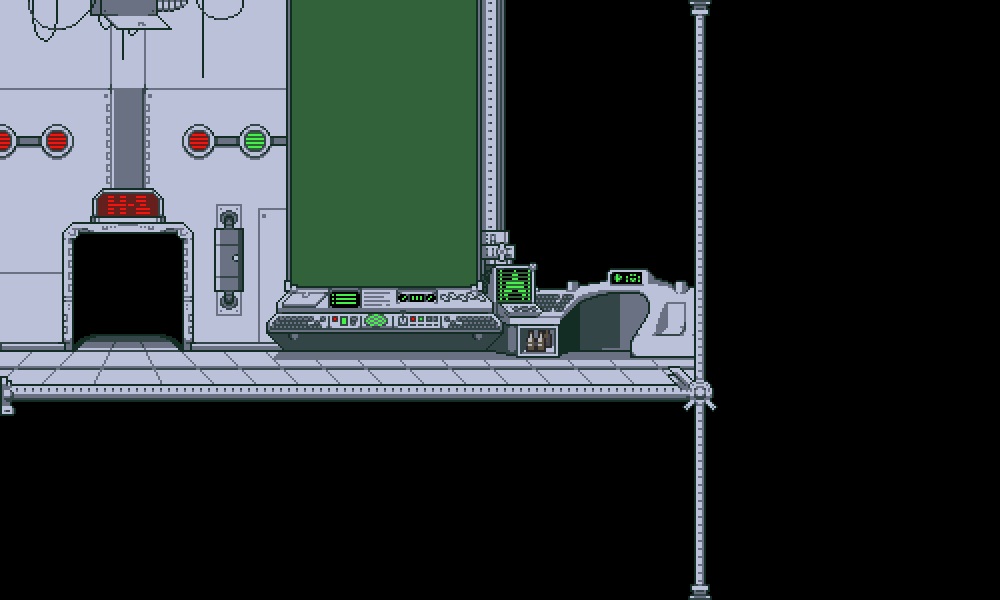
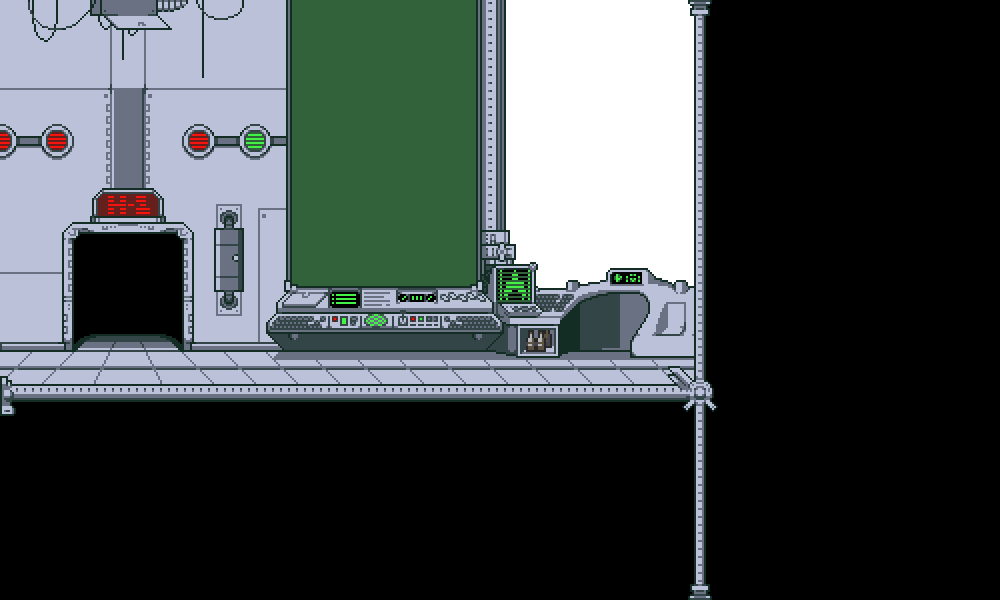
added star background

Changed region(s): [[0.496, 0.0, 0.713, 0.48]]

diff --git a/src/gui/GameScreen.java b/src/gui/GameScreen.java
@@ -39,7 +39,6 @@ public class GameScreen {
         drawStars();
         drawGame();
     }
-
     
     // Draws and runs the main game
     private void drawGame() {
@@ -118,16 +117,6 @@ public class GameScreen {
         } else {
             applet.text(" nobody to assign", x, y);
         }
-//        String nextLine = "";
-//        if ((System.currentTimeMillis() / 500) % 2 == 0) {
-//            nextLine += ">";
-//        } else {
-//            nextLine += " ";
-//        }
-//        textSize(14);
-//        nextLine += " What do we do now?";
-//        text(nextLine, x, y);
-//        y += yspacing;
     }
     
  // Called when the screen is clicked during gameStage = 1
@@ -149,32 +138,26 @@ public class GameScreen {
         // Remove stars
         for (int i = stars.size() - 1; i >= 0; i--) {
             Star star = stars.get(i);
-            if (star.loc.x - star.r > applet.GAME_WIDTH / 2 ||
-                    star.loc.x + star.r < -applet.GAME_WIDTH / 2 ||
-                    star.loc.y - star.r > applet.GAME_HEIGHT / 2 ||
-                    star.loc.y + star.r < -applet.GAME_HEIGHT / 2) {
+            if (star.loc.x < 200) {
                 stars.remove(i);
             }
         }
         
         // Add stars
-        if (Math.random() > 0.5) {
-            float x = applet.random(-50, 50);
-            float y = applet.random(-50, 50);
-            float r = applet.random(0.5f, 0.7f);
+        if (Math.random() > 0.2) {
+            float x = 800f;
+            float y = applet.random(0, 300);
+            float r = applet.random(1f, 2f);
             stars.add(new Star(x, y, r));
         }
         
         // Draw stars
         applet.noStroke();
         applet.fill(255);
-        applet.pushMatrix();
-            applet.translate(applet.GAME_WIDTH / 2, applet.GAME_HEIGHT / 2);
-            for (Star star : stars) {
-                star.move();
-                applet.ellipse(star.loc.x, star.loc.y, star.r * 2, star.r * 2);
-            }
-        applet.popMatrix();
+        for (Star star : stars) {
+            star.move();
+            applet.ellipse(star.loc.x, star.loc.y, star.r * 2, star.r * 2);
+        }
         
         // Draw text
         applet.textAlign(applet.CENTER, applet.CENTER);
@@ -193,16 +176,13 @@ public class GameScreen {
         
         public Star(float x, float y, float r) {
             loc = new PVector(x, y);
-            velocity = new PVector(x, y);
-            //velocity.normalize();
-            velocity.mult(0.05f);
             this.r = r;
+            velocity = new PVector((r-.2f) * (r-.2f) * -2, 0);
         }
         
         public void move() {
-            velocity.mult(1 + (r / 100));
+            //velocity.mult(1 + (r / 100));
             loc.add(velocity);
-            this.r *= 1.01f;
         }
     }
     
